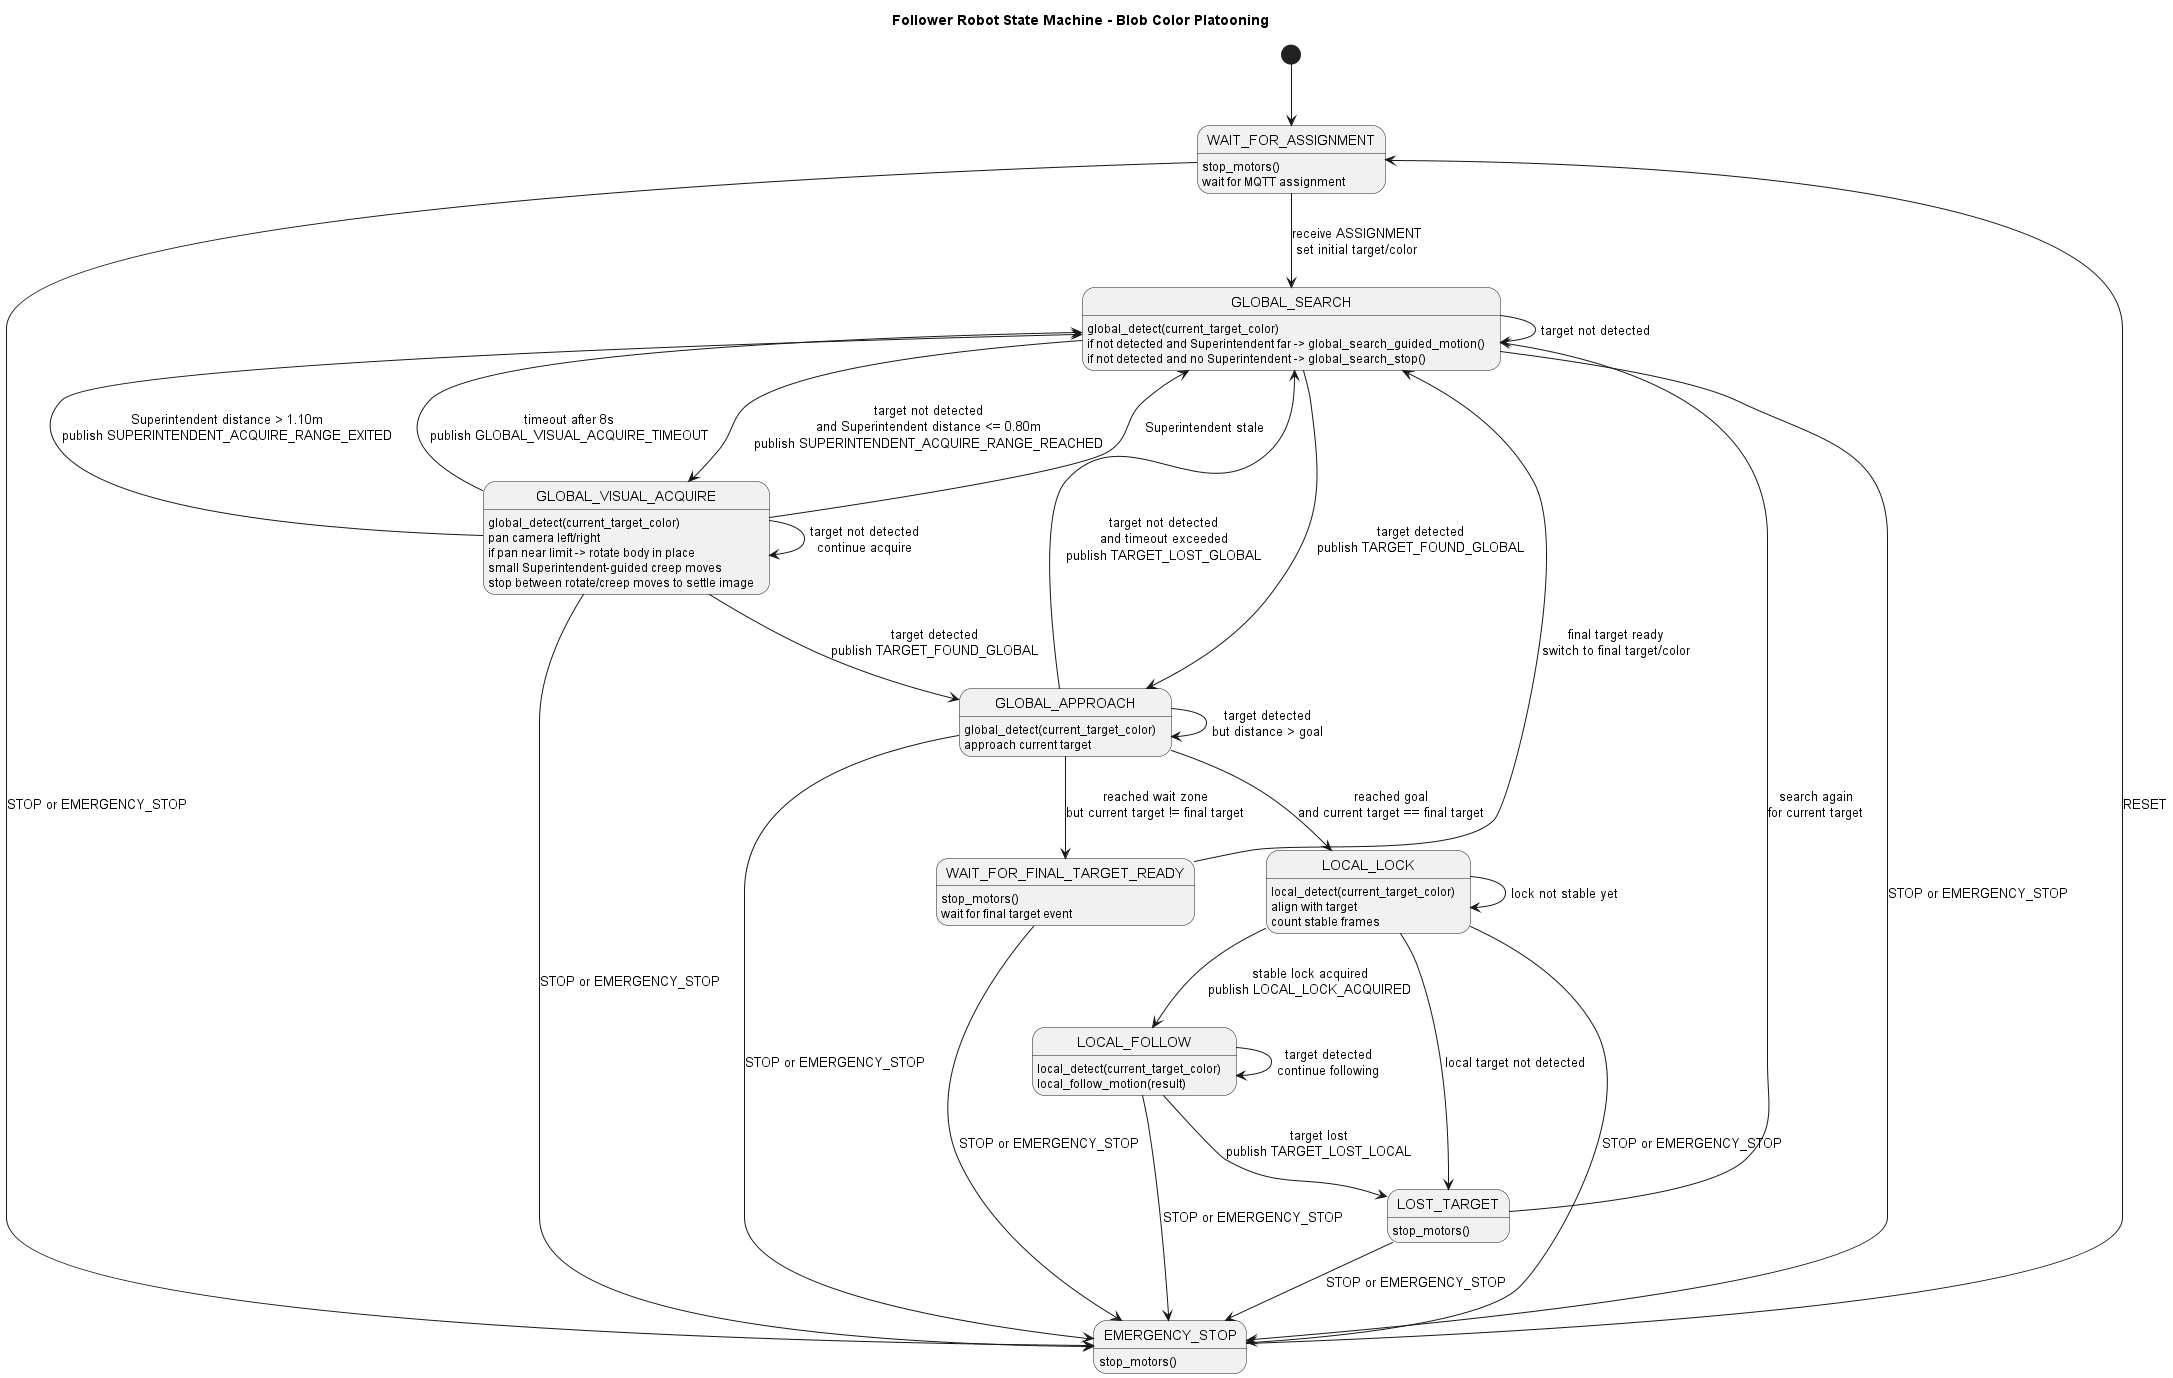
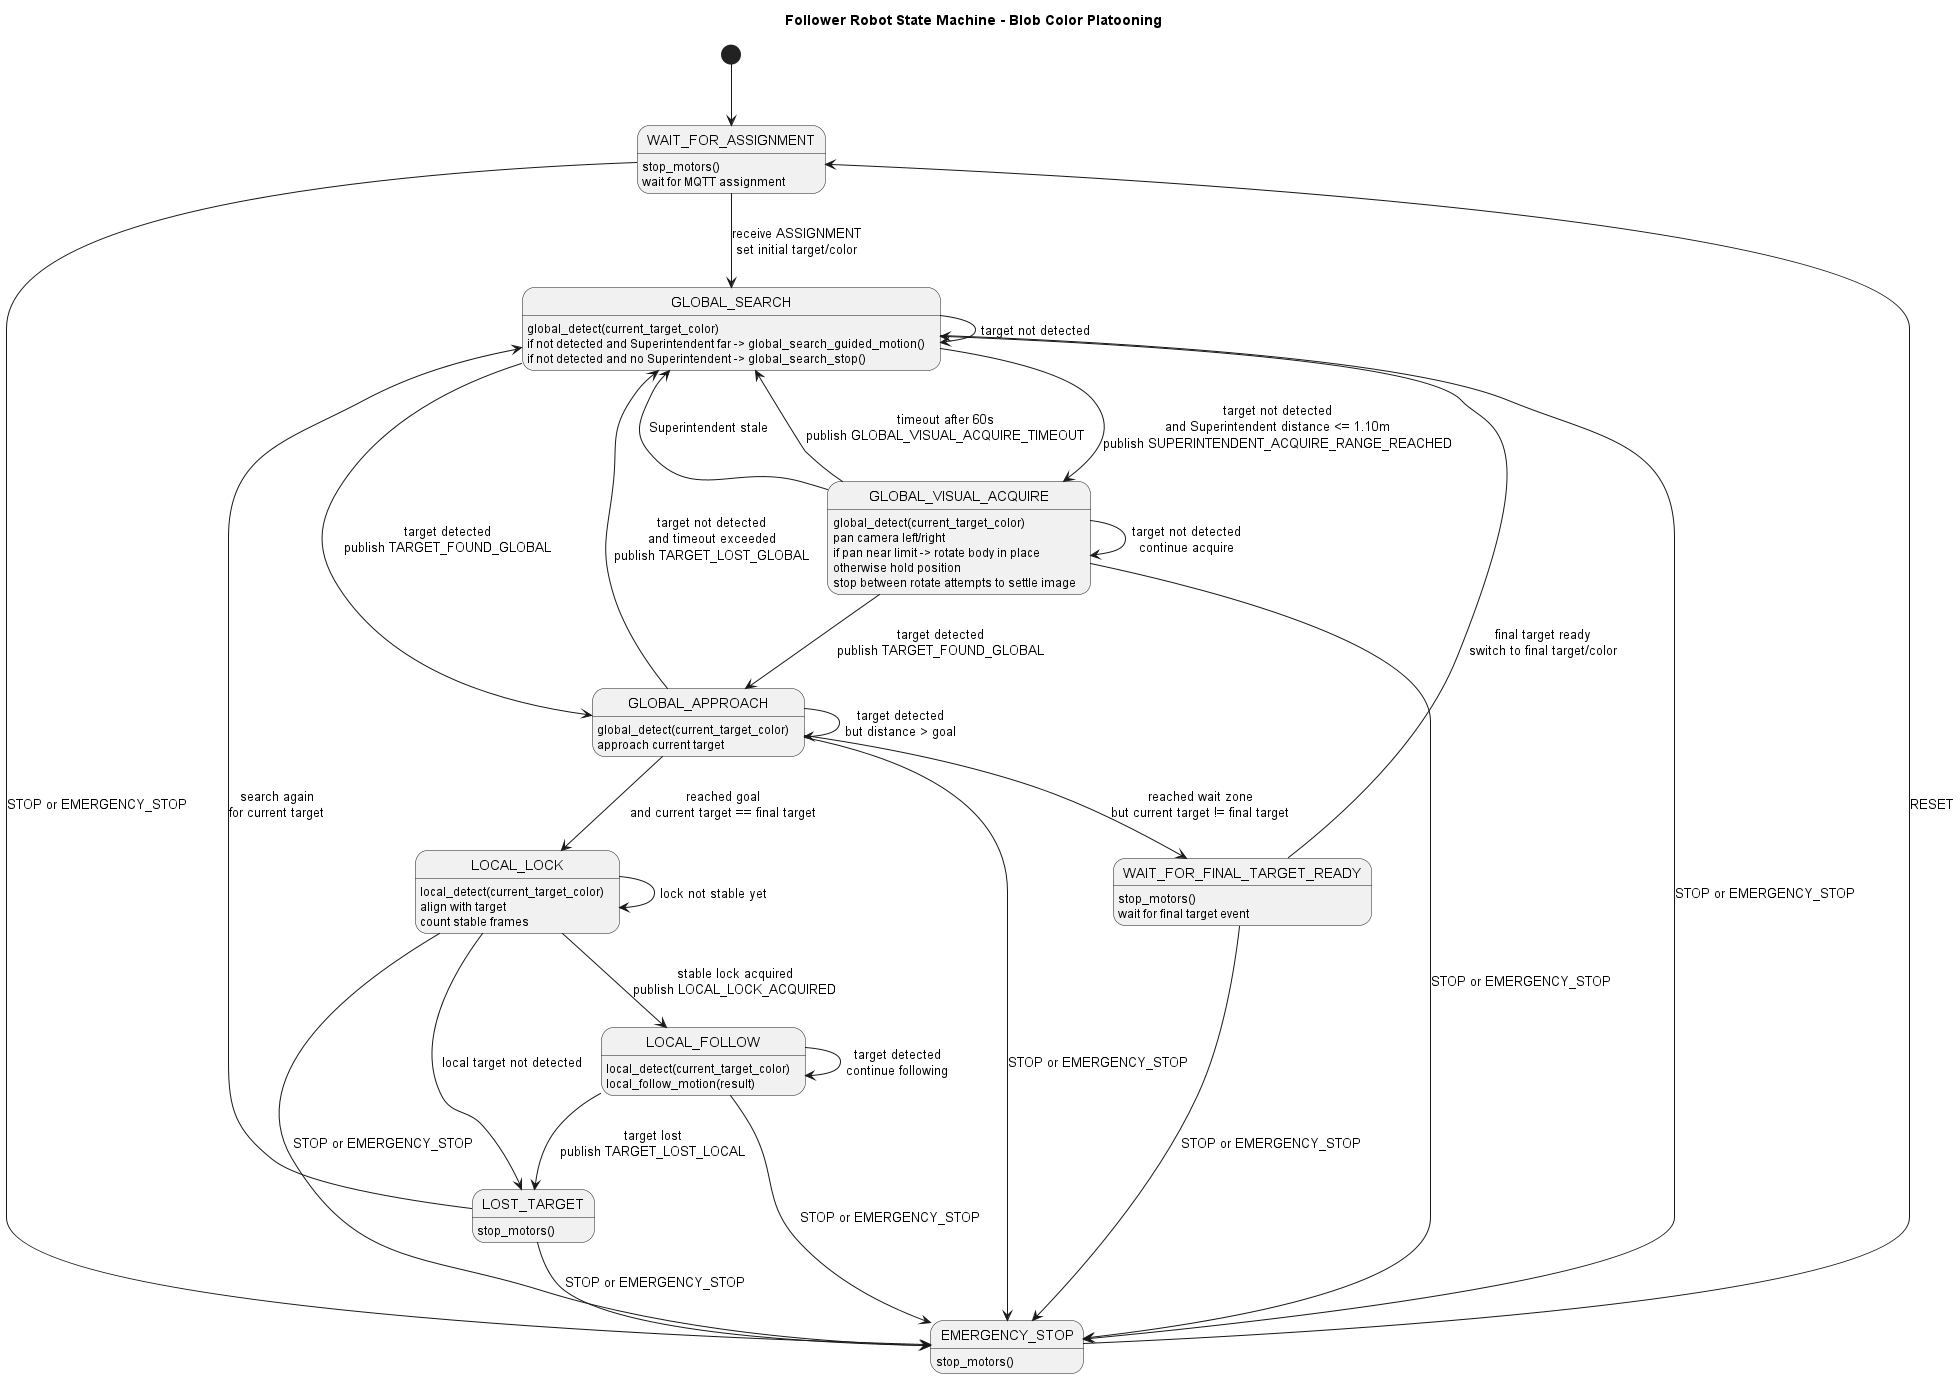
SUPERINTENDENT payload trim and removal of overhead-guided motion during VISUAL_ACQUIRE

diff --git a/follower/robot_implementation.py b/follower/robot_implementation.py
@@ -35,8 +35,6 @@ OVERHEAD_CLOSE_DISTANCE_M = 0.40
 OVERHEAD_DIRECTION_LEARN_DELTA_M = 0.02
 OVERHEAD_DIRECTION_LEARN_MIN_STEP = 6
 OVERHEAD_DIRECTION_LEARN_OBSERVE_S = 5.00
-VISUAL_ACQUIRE_MOVE_GAIN = 5
-VISUAL_ACQUIRE_MAX_STEP = 4
 VISUAL_ACQUIRE_MOVE_INTERVAL = 0.35
 VISUAL_ACQUIRE_PAN_STEP = 2
 VISUAL_ACQUIRE_ROTATE_PAN_THRESHOLD = 26
@@ -511,15 +509,6 @@ class FreenoveDirectRobotImplementation(FollowerRobotImplementation):
 
         self.visual_acquire_camera_sweep()
 
-        distance_m = measurement.distance_m
-        dx_m = measurement.dx_m
-        dy_m = measurement.dy_m
-
-        if distance_m is None or dx_m is None or dy_m is None:
-            self.action_status = "visual-acquire-missing"
-            self.stop_motors()
-            return
-
         distance_cm = self.request_ultrasonic_distance()
         if distance_cm is not None and distance_cm < OBSTACLE_MIN_CM:
             self.action_status = "visual-acquire-obstacle-back"
@@ -539,30 +528,8 @@ class FreenoveDirectRobotImplementation(FollowerRobotImplementation):
             self.send_move_xy(0, 0, turn)
             return
 
-        if distance_m <= OVERHEAD_CLOSE_DISTANCE_M:
-            self.action_status = "visual-acquire-hold"
-            self.stop_motors()
-            return
-
-        x, y = self.overhead_grid_step(
-            dx_m,
-            dy_m,
-            distance_m=distance_m,
-            measurement_timestamp=measurement.timestamp,
-            gain=VISUAL_ACQUIRE_MOVE_GAIN,
-            max_step=VISUAL_ACQUIRE_MAX_STEP,
-        )
-
-        self.last_visual_acquire_move = now
-
-        if x == 0 and y == 0:
-            self.action_status = "visual-acquire-hold"
-            self.stop_motors()
-            return
-
-        self.action_status = "visual-acquire-creep"
-        self.send_move_xy(x, y, 0)
-        self.remember_global_search_move(x, y, 0)
+        self.action_status = "visual-acquire-hold"
+        self.stop_motors()
 
     def overhead_grid_step(self, dx_m, dy_m, *, distance_m, measurement_timestamp, gain, max_step):
         self.update_overhead_direction_learning(dx_m, dy_m, distance_m, measurement_timestamp)

diff --git a/DistanceDetection/DistanceDetection.py b/DistanceDetection/DistanceDetection.py
@@ -714,24 +714,10 @@ def BuildDistanceEventPayload(robot_id, marker_a, marker_b):
         "timestamp": now,
         "source_marker": marker_a,
         "target_marker": marker_b,
-        "distance": measurement.get("distance"),
-        "raw_distance": measurement.get("raw_distance"),
-        "unit": measurement.get("unit"),
         "distance_m": measurement.get("distance_m"),
         "raw_distance_m": measurement.get("raw_distance_m"),
-        "pixel_distance": measurement.get("pixel_distance"),
-        "dx_pixels": measurement.get("dx_pixels"),
-        "dy_pixels": measurement.get("dy_pixels"),
         "dx_m": measurement.get("dx_m"),
         "dy_m": measurement.get("dy_m"),
-        "calibrated": snapshot["calibrated"],
-        "filtered": measurement.get("filtered", False),
-        "filter_reset": measurement.get("filter_reset", False),
-        "filter_rejected_jump_count": measurement.get("filter_rejected_jump_count", 0),
-        "filter_window": FILTER_WINDOW,
-        "filter_alpha": FILTER_ALPHA,
-        "filter_max_jump_m": FILTER_MAX_JUMP_M,
-        "filter_max_jump_rejects": FILTER_MAX_JUMP_REJECTS,
         "measurement_timestamp": snapshot["timestamp"],
     }
 

diff --git a/follower/state_machine.py b/follower/state_machine.py
@@ -7,7 +7,7 @@ from follower.robot_implementation import FollowerRobotImplementation
 
 
 SUPERINTENDENT_ACQUIRE_RANGE_M = 1.10
-GLOBAL_VISUAL_ACQUIRE_TIMEOUT_S = 35.0
+GLOBAL_VISUAL_ACQUIRE_TIMEOUT_S = 60.0
 
 
 class FollowerStateMachine:

diff --git a/DistanceDetection/MqttCameraDistanceGuide.md b/DistanceDetection/MqttCameraDistanceGuide.md
@@ -147,24 +147,10 @@ Example payload:
   "timestamp": 1784343103.09,
   "source_marker": "green",
   "target_marker": "pink",
-  "distance": 82.0,
-  "raw_distance": 91.0,
-  "unit": "cm",
   "distance_m": 0.82,
   "raw_distance_m": 0.91,
   "dx_m": 0.34,
   "dy_m": -0.71,
-  "pixel_distance": 312.4,
-  "dx_pixels": 240,
-  "dy_pixels": -199,
-  "calibrated": true,
-  "filtered": true,
-  "filter_reset": false,
-  "filter_rejected_jump_count": 0,
-  "filter_window": 5,
-  "filter_alpha": 0.35,
-  "filter_max_jump_m": 0.5,
-  "filter_max_jump_rejects": 3,
   "measurement_timestamp": 1784343103.05
 }
 ```
@@ -239,27 +225,15 @@ python3 /Platooning-project/DistanceDetection/DistanceDetection.py \
 
 ## Field Notes
 
-`distance` is the stabilized distance in the calibration unit, such as `cm`.
-
 `distance_m` is the stabilized distance converted to meters.
 
-`raw_distance` is the newest unfiltered distance in the calibration unit.
-
 `raw_distance_m` is the newest unfiltered distance converted to meters.
-
-`filter_reset` is `true` on the sample where the stabilizer accepted repeated
-large jumps as a real movement and re-anchored the stable value.
-
-`filter_rejected_jump_count` counts consecutive large jumps that are still
-being rejected as likely noise.
 
 `dx_m` and `dy_m` are the overhead world-plane vector from `source_marker` to
 `target_marker`, converted to meters.
 
-`pixel_distance`, `dx_pixels`, and `dy_pixels` are image-space diagnostics.
-
-`calibrated` should be `true` for real-world distance. If it is `false`, the
-camera can still detect marker positions, but real-world distance is not ready.
+`measurement_timestamp` is the source camera snapshot time used for the
+measurement. `timestamp` is when the MQTT event payload was built.
 
 ## Quick Checklist
 

diff --git a/DistanceDetection/SuperintendentFollowerGuide.md b/DistanceDetection/SuperintendentFollowerGuide.md
@@ -142,14 +142,21 @@ Inside this state the robot:
 2. Transitions to `GLOBAL_APPROACH` as soon as the blob is visible.
 3. Sweeps the camera left/right if the blob is not visible.
 4. Rotates the body slowly in place when the camera pan is near its limit.
-5. Otherwise uses small Superintendent-guided creep moves.
-6. Stops between rotate/creep moves to let the camera image settle.
+5. Otherwise holds position while continuing camera acquisition.
+6. Stops between rotate attempts to let the camera image settle.
+
+The camera pan is not reset when entering `GLOBAL_VISUAL_ACQUIRE`. The sweep
+continues from the current `pan_angle` and current sweep direction. From a
+centered camera with the default direction, it pans toward the positive side
+first, reverses at `pan_max`, sweeps across to `-pan_max`, then repeats until
+the blob is detected, the Superintendent measurement goes stale, or the visual
+acquire timeout is reached.
 
 It exits back to `GLOBAL_SEARCH` when:
 
 ```text
 Superintendent measurement is stale
-visual acquisition takes longer than 35 seconds
+visual acquisition takes longer than 60 seconds
 ```
 
 The Superintendent does not directly trigger `GLOBAL_APPROACH`; onboard blob